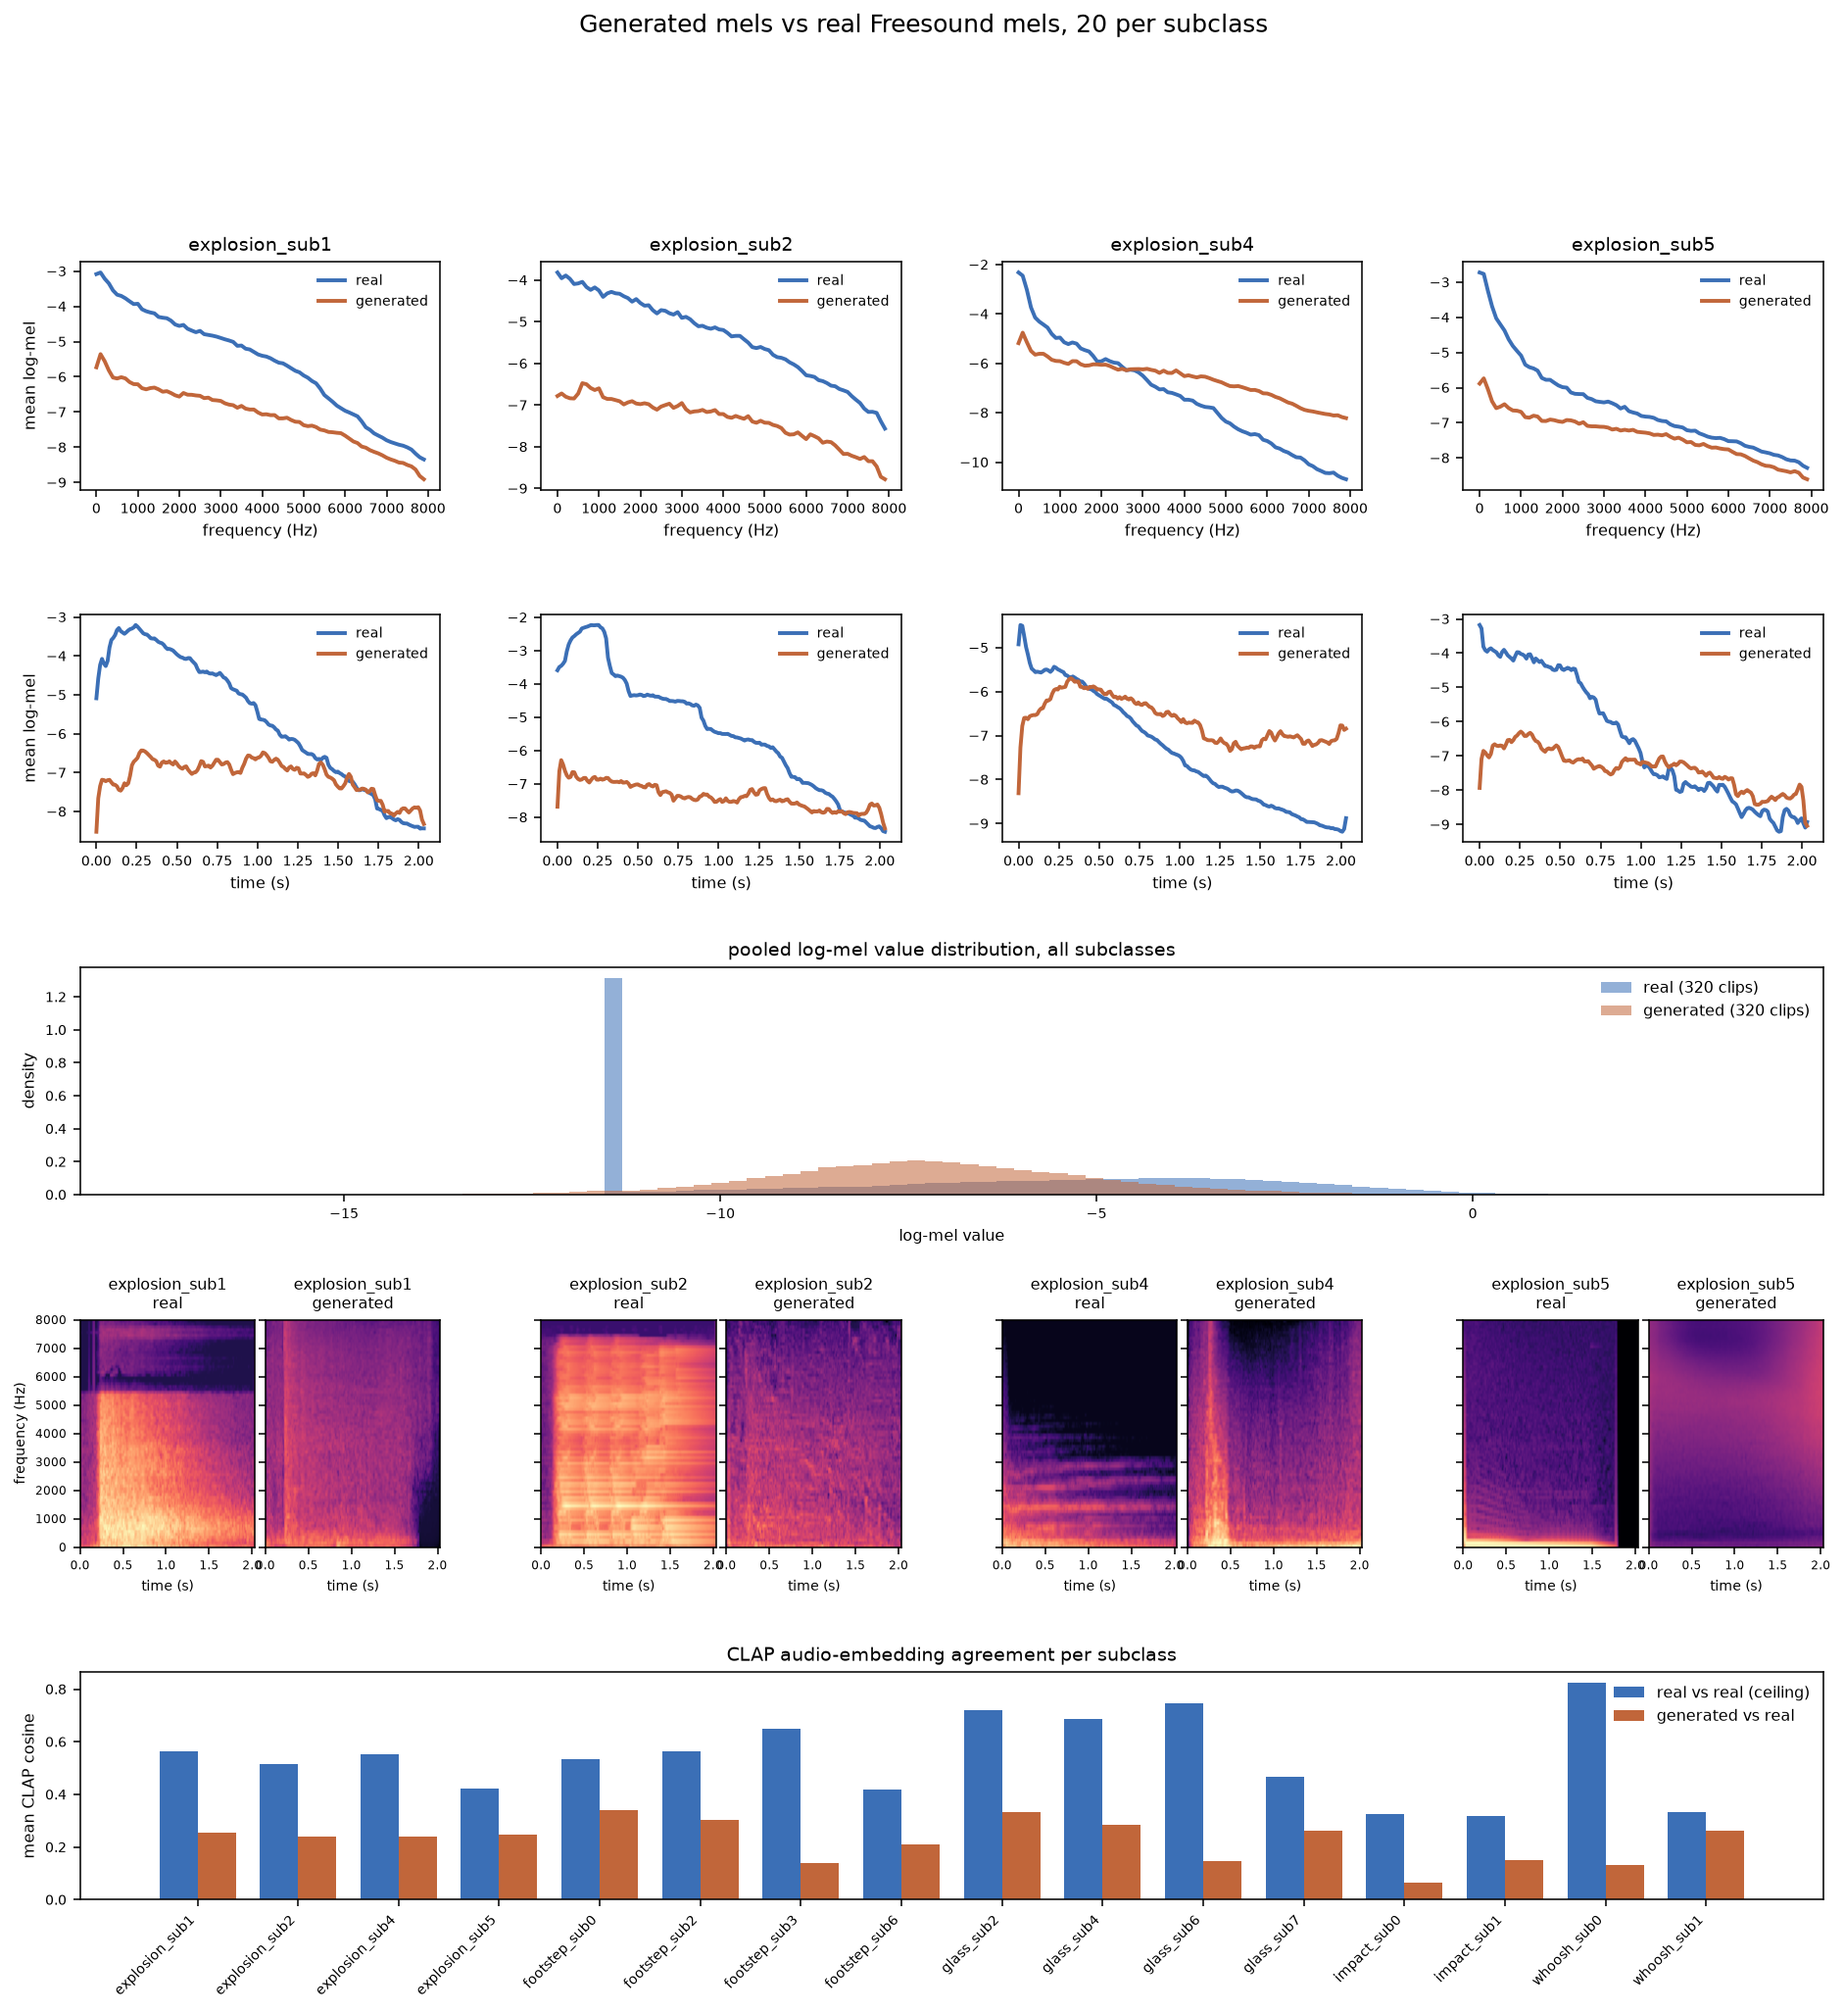
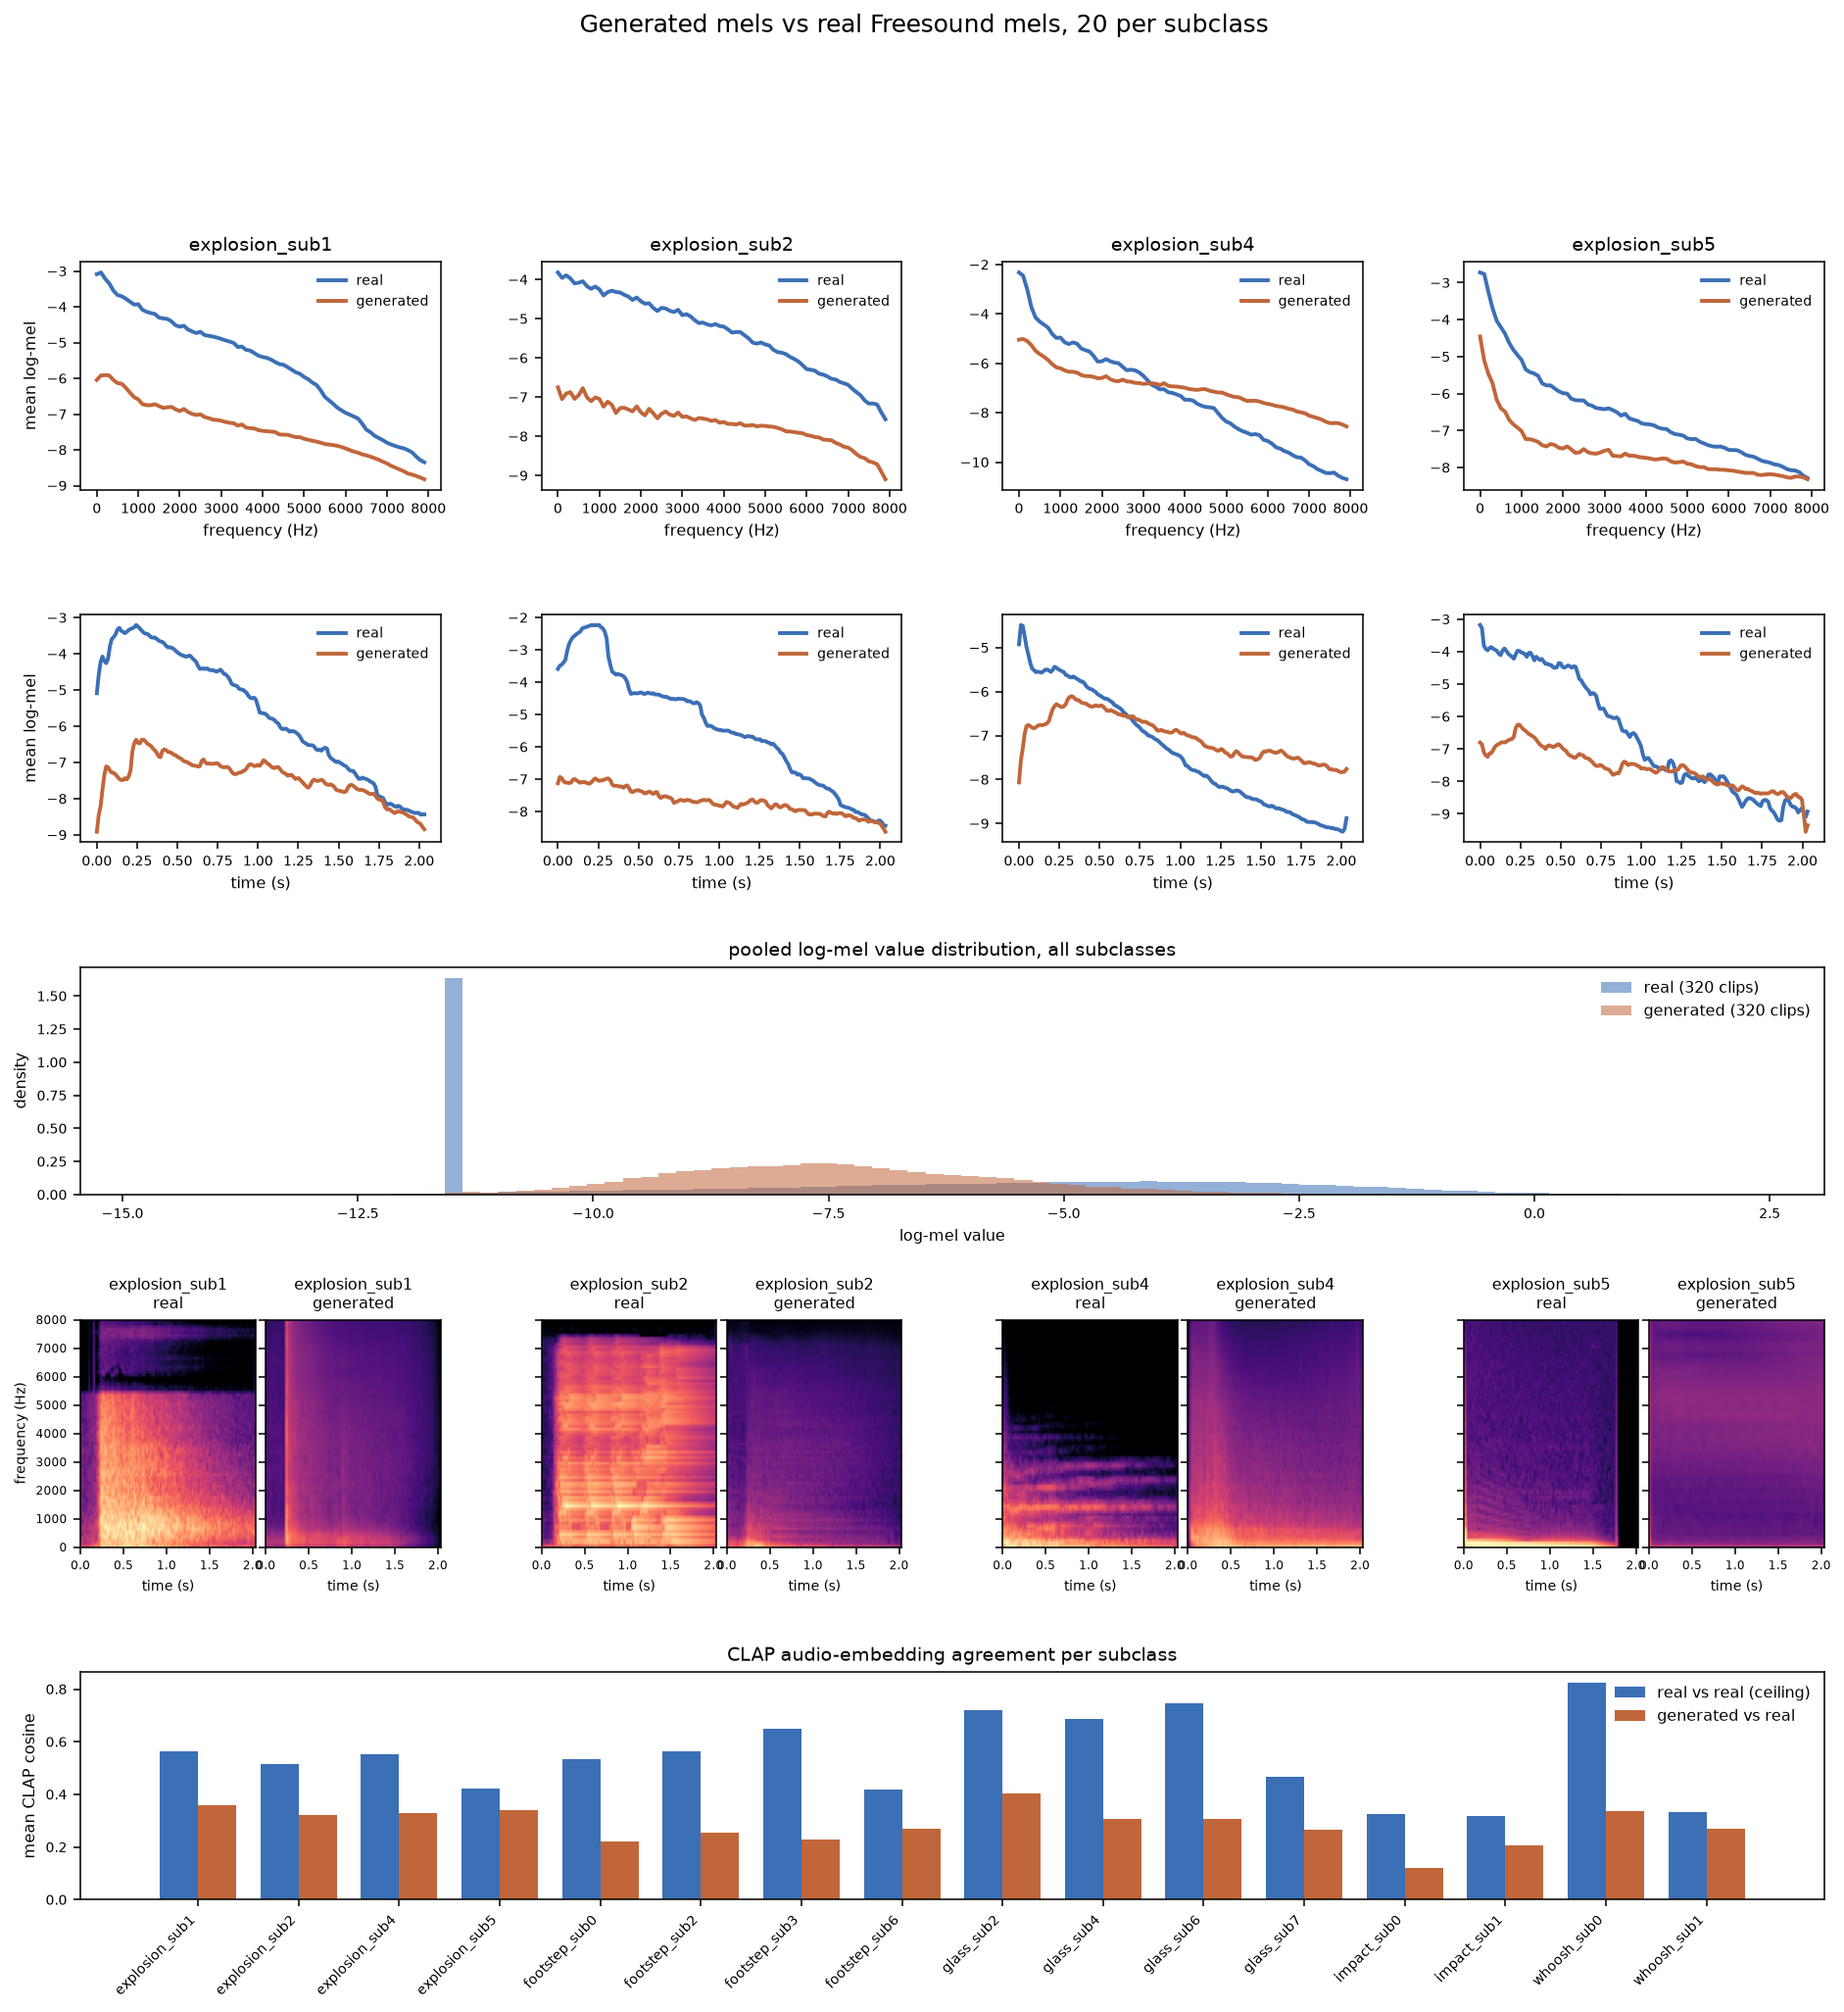
new gen vs real tests

diff --git a/models/check_gen.py b/models/check_gen.py
@@ -21,7 +21,7 @@ from models.diffusion import (DDIM_ETA, DDIM_STEPS, DDIMSampler, GaussianDiffusi
 LABELS_PATH = os.path.join("data", "processed", "labels.json")
 STATS_PATH = os.path.join("data", "processed", "mel_stats.json")
 INDEX_PATH = os.path.join("data", "processed", "index.csv")
-CHECKPOINT_DEFAULT = os.path.join("models", "checkpoints", "cunet_epoch40.pt")
+CHECKPOINT_DEFAULT = os.path.join("models", "checkpoints", "cunet_epoch250.pt")
 OUT_DIR = os.path.join("models", "generated")
 PLOT_PATH = os.path.join(OUT_DIR, "real_vs_generated.png")
 
